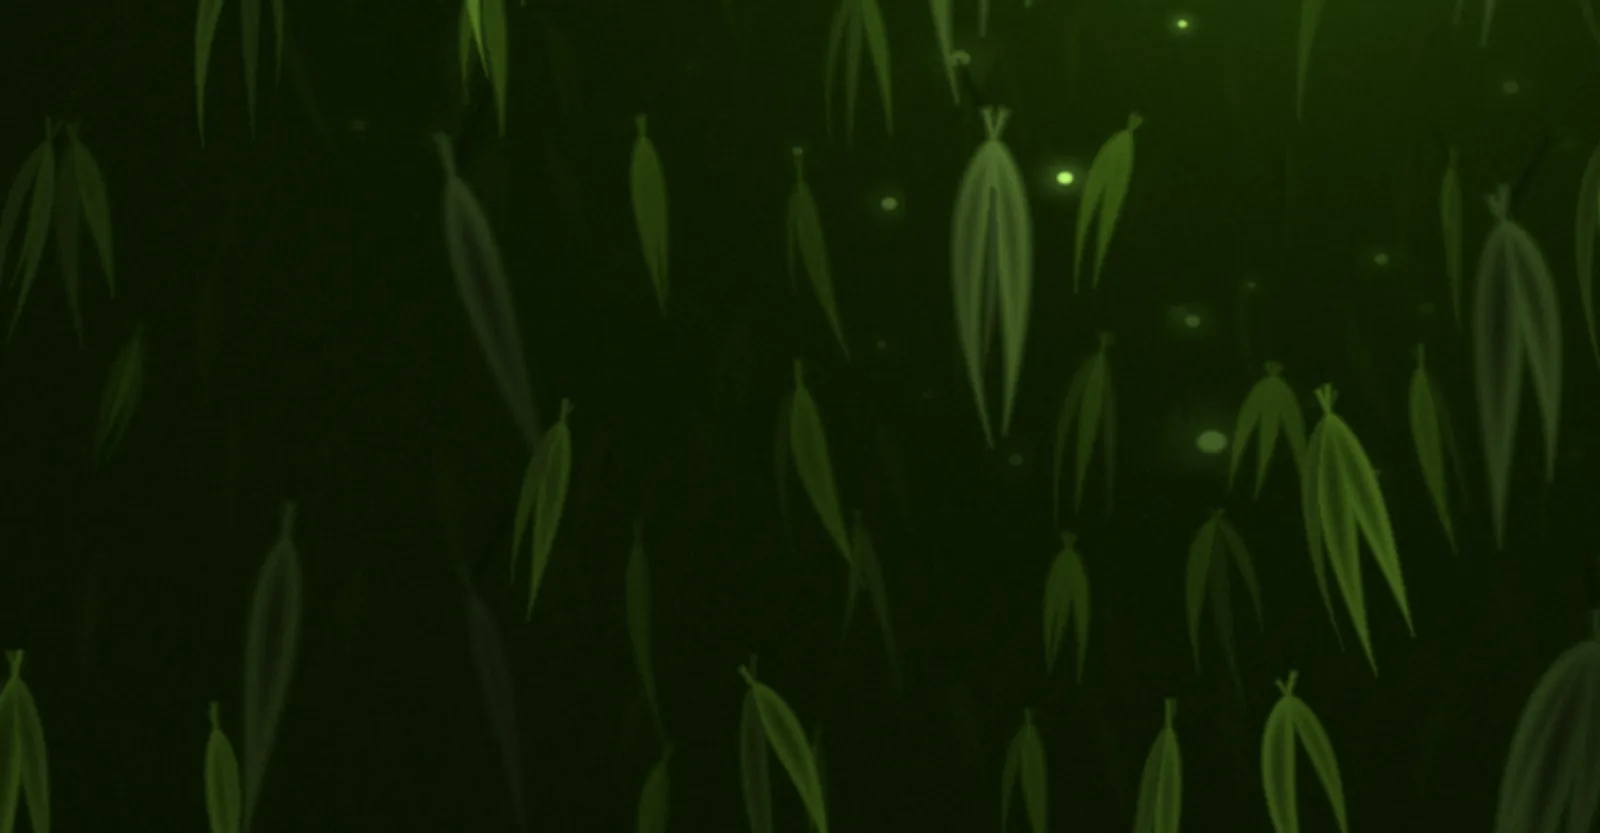
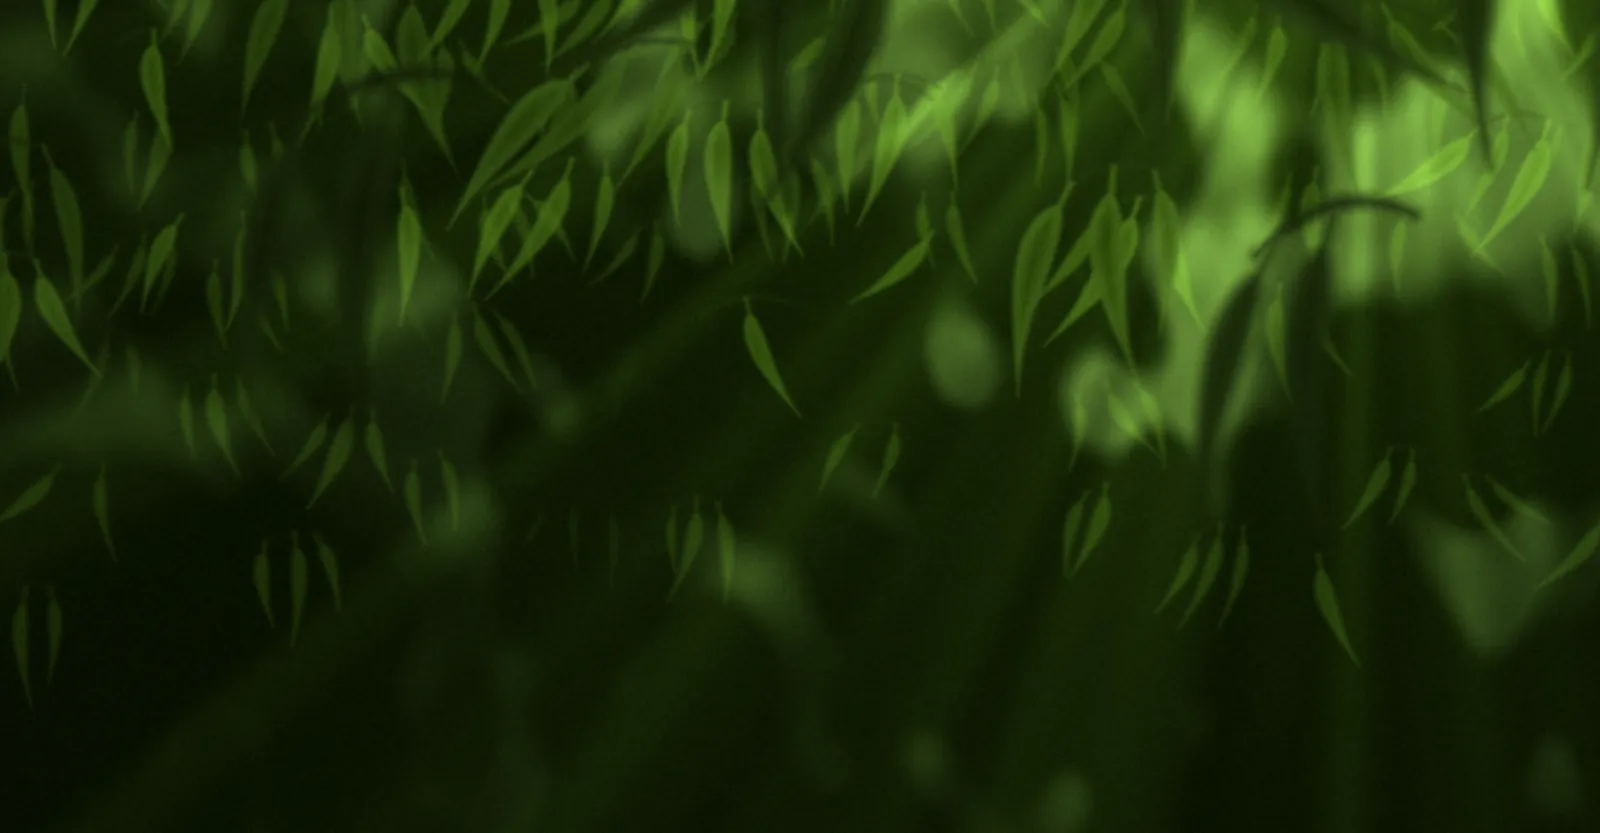
fix(welcome): canopy reads as dappled light under a gum tree, with no tile seams
- One sun, high on the right: a broad luminance gradient and shafts fanning down-left.
- Falcate gum leaves (curved midrib, fuller convex side, petiole, drawn-out tip) hang
  alternately from drooping twigs, at varied angles; each layer's twig grid is turned
  so the canopy never settles into rows; dense along the top edge, thinning downward.
- Depth: far leaves small and lit through in olive to fern; near leaves large, dark,
  soft, rim-lit only.
- Dapples are soft, irregular, overlapping Sprout pools from continuous noise, warped
  by the wind so they shimmer as the leaves move. The per-cell sun flecks (clipped at
  their cell edge, leaving square tiles) are gone.
- Leaves sample a 3x2 cell neighbourhood sized to their reach: renders are
  pixel-identical to a 5x4 neighbourhood with no reach cull over 20 frames at 1440
  and 390, so no leaf is cut at a cell edge.
- Poster recaptured from the new shader (30.6 KB).

Claude-Session: https://claude.ai/code/session_017CZvgkGPz5bSNZ1gF1KSeU

diff --git a/odip-prototype/odip/frontend/welcome/canopy-shader.ts b/odip-prototype/odip/frontend/welcome/canopy-shader.ts
@@ -1,8 +1,10 @@
-// GLSL for the canopy light field (WebGL 1, one fullscreen triangle): looking up through a gum canopy in the app's
-// greens. Forest ground, late sun beyond the leaves, sickle-shaped gum leaves hanging in tufts from twigs in parallax
-// layers, lit from behind like green glass (glowing edges, a shaded foreground) and swaying in a wind with travelling gusts, Sprout sun flecks where
-// the canopy opens, and fine grain. Coordinates: px are CSS pixels from the viewport's top left (y down); world
-// units are viewport heights, so the canopy keeps its scale on any screen.
+// GLSL for the canopy light field (WebGL 1, one fullscreen triangle): looking up into a gum canopy in the app's
+// greens. One sun, high on the right beyond the leaves, lights the field as a broad gradient with shafts slanting
+// down-left from it. Sickle-shaped gum leaves hang in clusters from drooping twigs, in parallax layers: the canopy is
+// dense along the top edge and thins downward; far leaves are small and lit through like fern-green glass, near ones
+// large, dark and soft with only their rims lit. Soft, irregular pools of Sprout light dapple the field and shimmer
+// as the wind moves the leaves, with fine grain over everything. Coordinates: px are CSS pixels from the viewport's
+// top left (y down); world units are viewport heights, so the canopy keeps its scale on any screen.
 
 export const VERTEX = `
 attribute vec2 aPos;
@@ -63,33 +65,25 @@ float wind(vec2 a, float t) {
   float g1 = (a.x - (fract(t * 0.043) * span - 0.9)) * 2.4;
   float g2 = (a.x - (fract(t * 0.043 + 0.53) * span - 0.9)) * 3.0;
   float gust = exp(-g1 * g1) * (0.65 + 0.35 * sin(t * 0.23)) + 0.75 * exp(-g2 * g2);
-  return sway * 0.4 + gust;
+  return sway * 0.45 + gust * 1.2;
 }
 
-// A hanging gum leaf in its own space (y runs down the leaf from its stalk): long and lanceolate, curved like a
-// sickle, with a drip tip and a short stalk. An approximate distance, which is all soft shading needs.
-float leaf(vec2 q, float len, float halfW, float bend) {
-  float t = clamp(q.y / len, 0.0, 1.0);
-  float x = q.x - bend * len * t * t;
-  float prof = pow(max(sin(3.14159 * pow(t, 0.62)), 0.0), 1.1) * (1.0 - 0.25 * t);
-  float body = max(abs(x) - halfW * prof, max(-q.y, q.y - len));
-  float stalk = max(abs(q.x) - halfW * 0.16, max(-q.y - len * 0.1, q.y - len * 0.04));
-  return min(body, stalk);
-}
-
-// Sun flecks: small bright images of the sun where the canopy opens, twinkling as the leaves move over them.
-float flecks(vec2 g, float t, float density) {
-  vec2 c = floor(g);
-  vec2 f = fract(g);
-  vec2 h = hash22(c + 13.1);
-  float on = step(1.0 - density, hash12(c + 2.7));
-  float r = 0.06 + 0.1 * hash12(c + 5.3);
-  vec2 dd = (f - (0.25 + 0.5 * h)) * vec2(1.0, 1.3);
-  float d2 = dot(dd, dd);
-  float core = 1.0 - smoothstep(r * r * 0.2, r * r, d2);
-  float bloom = exp(-d2 / (r * r * 5.0)) * 0.35;
-  float twinkle = 0.45 + 0.55 * sin(t * (0.6 + 1.7 * h.y) + h.x * 6.2831);
-  return (core + bloom) * max(twinkle, 0.0) * on;
+// A hanging gum leaf in its own space (y runs down from where the petiole meets the twig): a short petiole, then a
+// long narrow blade on a curved midrib (the sickle), widest a third of the way down, its convex side a little fuller,
+// drawn out to a fine tip. Returns an approximate distance (enough for soft shading) and the distance from the
+// midrib as a fraction of the half-width.
+vec2 leaf(vec2 q, float len, float halfW, float bend) {
+  float pet = len * 0.12;
+  float bl = len - pet;
+  float y = q.y - pet;
+  float t = clamp(y / bl, 0.0, 1.0);
+  float x = q.x - bend * bl * t * t;
+  float slope = 2.0 * bend * t;
+  float prof = pow(sin(3.14159 * pow(t, 0.6)), 1.25) * (1.0 - 0.3 * t);
+  float w = halfW * prof * (x * bend < 0.0 ? 1.18 : 0.85);
+  float body = max((abs(x) - w) / sqrt(1.0 + slope * slope), max(-y, y - bl));
+  float stalk = max(abs(q.x) - halfW * 0.13, max(-q.y, y - len * 0.02));
+  return vec2(min(body, stalk), abs(x) / max(w, 1e-4));
 }
 
 // Light finds the work: the canopy brightens round each paper clearing in view.
@@ -106,7 +100,7 @@ float pools(vec2 px) {
   return min(s, 1.3);
 }
 
-// Quiet zones: behind every block of text the flecks go out and the ground darkens, fading softly at the edges.
+// Quiet zones: behind every block of text the dapples go out and the ground darkens, fading softly at the edges.
 float quiet(vec2 px) {
   float q = 0.0;
   for (int i = 0; i < 8; i++) {
@@ -126,104 +120,128 @@ void main() {
   float t = uTime;
   float sN = uScroll / uView.y;
 
-  // The late sun sits beyond the canopy, high to the right; light comes through in soft drifting openings.
-  vec2 sun = vec2(aspect * 0.8, -0.2 + 0.05 * sin(sN * 0.6));
-  float glow = exp(-length((w - sun) * vec2(0.75, 1.0)) * 1.7);
-  float opening = smoothstep(0.42, 0.9, vnoise(w * 1.4 + vec2(t * 0.012, sN * 0.1)));
+  // The sun, high on the right beyond the canopy: a broad gradient across the field, and shafts fanning down-left.
+  vec2 ds = w - vec2(aspect * 0.86, -0.34 + 0.04 * sin(sN * 0.6));
+  float r = length(ds * vec2(0.8, 1.0));
+  float glow = exp(-r * 1.0);
+  float ang = atan(ds.y, ds.x);
+  float shaft = 0.6 * vnoise(vec2(ang * 9.0 + t * 0.02, 1.7)) + 0.4 * vnoise(vec2(ang * 23.0 - t * 0.035, 8.3));
+  shaft = smoothstep(0.4, 0.85, shaft) * smoothstep(0.1, 0.55, r) * exp(-r * 0.6);
   float pool = pools(px);
-  float L = clamp(glow * (0.45 + 0.75 * opening) + pool * 0.55, 0.0, 1.2);
+  float L = clamp(glow + 0.35 * shaft + 0.55 * pool, 0.0, 1.3);
 
-  // The ground stays deep forest; the light is carried by the leaves it passes through.
-  vec3 col = FOREST * 0.55 + OLIVE * 0.22 * glow + FERN * 0.16 * glow * glow + SPROUT * 0.1 * pow(glow, 4.0);
+  vec3 col = FOREST * 0.42 + OLIVE * 0.34 * glow * glow + FERN * 0.3 * glow * glow + SPROUT * 0.18 * pow(glow, 4.0);
+  col += (FERN * 0.22 + SPROUT * 0.06) * shaft;
   col += (OLIVE * 0.22 + FERN * 0.1) * pool;
 
   vec2 bp = uBreeze.xy / uView.y;
   float open = 1.0;
-  float glint = 0.0;
   for (int i = 0; i < 4; i++) {
     float li = float(i);
     if (li < 4.0 - uLayers) continue;
-    float S = pick4(li, vec4(0.16, 0.24, 0.34, 0.5));
+    // Layer 0 is the farthest: small, high and lit through; layer 3 the nearest: large, low on the top edge, dark.
+    float S = pick4(li, vec4(0.15, 0.22, 0.32, 0.52));
     float par = pick4(li, vec4(0.05, 0.11, 0.19, 0.3));
-    float amp = pick4(li, vec4(0.05, 0.08, 0.11, 0.14));
-    float blur = pick4(li, vec4(0.007, 0.0045, 0.0025, 0.007));
-    float occl = pick4(li, vec4(0.15, 0.35, 0.75, 0.95));
-    float near = li / 3.0;
+    float amp = pick4(li, vec4(0.07, 0.1, 0.13, 0.16));
+    float blur = pick4(li, vec4(0.0035, 0.0022, 0.003, 0.012));
+    float occl = pick4(li, vec4(0.1, 0.3, 0.6, 0.95));
+    float yTop = pick4(li, vec4(0.15, 0.05, -0.02, -0.06));
+    float yBot = pick4(li, vec4(0.95, 0.75, 0.55, 0.34));
+    float soft = blur + 1.2 / uRes.y;
     vec2 shift = vec2(li * 3.17, li * 1.31 + sN * par);
     vec2 p = w + shift;
-    vec2 g = p / S;
-    vec2 c0 = floor(g);
-    float side = fract(g.x) < 0.5 ? -1.0 : 1.0;
+    // Each layer's twig grid is turned a little, alternately, so the canopy never settles into rows.
+    float gr = pick4(li, vec4(0.28, -0.22, 0.3, -0.26));
+    vec2 gx = vec2(cos(gr), sin(gr));
+    vec2 gy = vec2(-gx.y, gx.x);
+    vec2 c0 = floor(vec2(dot(p, gx), dot(p, gy)) / S);
     float best = 1e3;
+    float fade = 0.0;
     float face = 1.0;
     float mid = 1.0;
     float tint = 0.5;
-    float twig = 1e3;
-    for (int k = 0; k < 4; k++) {
+    float tm = 0.0;
+    // A twig's leaves reach at most 1.45 S from its anchor and at most 1.25 S sideways or 0.2 S up, and anchors sit
+    // 0.3-0.7 across and 0.25-0.5 down their cell, so this cell, its two side neighbours and the three above hold
+    // every leaf that can cover this pixel: no leaf is ever cut at a cell edge.
+    for (int k = 0; k < 6; k++) {
       float fk = float(k);
-      vec2 c = c0 + vec2(mod(fk, 2.0) * side, -floor(fk * 0.5));
-      // Tufts gather in clumps, with open sky between them.
-      if (hash12(c * 1.73 + li * 5.1) < 0.18 || vnoise(c * 0.45 + li * 7.0) < 0.28) continue;
+      float row = floor((fk + 0.5) / 3.0);
+      vec2 c = c0 + vec2(fk - 3.0 * row - 1.0, -row);
       vec2 h = hash22(c + li * 17.3);
       float seed = hash12(c + li * 9.7 + 4.2);
-      // A node at the end of a twig; a tuft of one to three gum leaves fans down from it.
-      vec2 a = (c + vec2(0.1 + 0.8 * h.x, 0.04 + 0.36 * h.y)) * S;
+      vec2 ag = (c + vec2(0.3 + 0.4 * h.x, 0.25 + 0.25 * h.y)) * S;
+      vec2 a = ag.x * gx + ag.y * gy;
       vec2 aw = a - shift;
-      vec2 dB = aw + vec2(0.0, S * 0.4) - bp;
-      float br = uBreeze.z * exp(-dot(dB, dB) / 0.04);
-      float sway = amp * wind(aw, t + seed * 3.0) + br * (0.45 * uPush + 0.2 * sin(t * 12.0 + seed * 40.0));
-      float base = (h.x - 0.5) * 0.6;
-      // A short twig stub above the node, tapering away fast.
-      vec2 tdir = normalize(vec2((seed - 0.5) * 1.4, -1.0));
+      // Dense along the top edge, thinning downward, in clumps; a twig fades rather than pops as the camera drifts.
+      float dens = (1.0 - smoothstep(yTop, yBot, aw.y)) * (0.45 + 0.8 * vnoise(c * 0.5 + li * 7.0));
+      float pres = smoothstep(seed - 0.08, seed + 0.08, dens);
       vec2 tq = p - a;
-      float along = clamp(dot(tq, tdir), 0.0, S * 0.22);
-      twig = min(twig, length(tq - tdir * along) + along * 0.03);
+      if (pres < 0.01 || dot(tq, tq) > S * S * 2.1) continue;
+      vec2 dB = aw + vec2(0.0, S * 0.45) - bp;
+      float br = uBreeze.z * exp(-dot(dB, dB) / 0.05);
+      float sway = amp * wind(aw, t + seed * 3.0) + br * (0.45 * uPush + 0.18 * sin(t * 11.0 + seed * 40.0));
+      // The twig: a short drooping stem, tilted, bending a little with the wind.
+      float span = S * (0.18 + 0.1 * h.y);
+      float tilt = (seed - 0.5) * 0.5 + sway * 0.15;
+      float droop = S * 0.07;
+      float sx = clamp(tq.x, -span, span);
+      float u = sx / span;
+      float twd = length(vec2(tq.x - sx, tq.y - tilt * sx - droop * u * u)) - S * 0.016 * (1.0 - 0.6 * abs(u));
+      tm = max(tm, (1.0 - smoothstep(-soft, soft, twd)) * pres);
       for (int j = 0; j < 3; j++) {
         float fj = float(j) - 1.0;
         float sj = hash12(c + li * 3.9 + fj * 7.7 + 2.0);
-        if (sj < 0.12 + 0.2 * abs(fj)) continue;
-        float ang = base + sway + fj * (0.25 + 0.35 * seed) + (sj - 0.5) * 0.3 + 0.05 * sin(t * (0.9 + sj) + sj * 9.0);
-        float len = S * (0.45 + 0.6 * sj) * (1.0 - 0.18 * abs(fj));
-        float halfW = len * (0.065 + 0.035 * seed);
-        float bend = fj * 0.3 + (sj - 0.5) * 0.5;
-        vec2 q = p - a;
-        float cs = cos(ang);
-        float sn = sin(ang);
+        if (sj < 0.1 + 0.15 * abs(fj)) continue;
+        // Leaves hang alternately along the twig, pendulous, each at its own angle, each turning on its petiole.
+        float lx = span * (fj * 0.8 + (sj - 0.5) * 0.25);
+        float lu = lx / span;
+        vec2 at = a + vec2(lx, tilt * lx + droop * lu * lu);
+        float la = clamp((h.x - 0.5) * 0.9 + -fj * (0.2 + 0.25 * seed) + (sj - 0.5) * 0.35 + sway + 0.06 * sin(t * (0.8 + sj) + sj * 9.0), -0.85, 0.85);
+        float len = S * (0.55 + 0.4 * sj) * (1.0 - 0.12 * abs(fj));
+        float halfW = len * (0.085 + 0.03 * seed);
+        float bend = (fract(sj * 7.3) > 0.5 ? 1.0 : -1.0) * (0.16 + 0.12 * fract(sj * 13.1));
+        vec2 q = p - at;
+        float cs = cos(la);
+        float sn = sin(la);
         q = vec2(cs * q.x + sn * q.y, -sn * q.x + cs * q.y);
-        float tw = 0.45 + 0.55 * abs(cos(sj * 6.2831 + t * (0.25 + 0.3 * seed) + ang * 4.0 + br * 3.0));
-        float d = leaf(q, len, halfW * tw, bend);
+        float tw = 0.72 + 0.28 * abs(cos(sj * 6.2831 + t * (0.2 + 0.25 * seed) + la * 3.0 + br * 3.0));
+        vec2 lf = leaf(q, len, halfW * tw, bend);
+        float d = lf.x + (1.0 - pres) * S * 0.04;
         if (d < best) {
           best = d;
+          fade = pres;
           face = tw;
           tint = sj;
-          float tt = clamp(q.y / len, 0.0, 1.0);
-          mid = abs(q.x - bend * len * tt * tt) / max(halfW * tw, 1e-4);
+          mid = lf.y;
         }
       }
     }
-    float soft = blur + 1.2 / uRes.y;
-    float m = 1.0 - smoothstep(-soft, soft, best);
-    // Lit from behind, like green glass: brighter toward the edge, a pale midrib, a Sprout rim where the sun catches.
-    // The nearest layer is the shaded foreground: a dark blade with only its rim lit. The farthest recedes into haze.
-    float lightIn = 0.32 + 0.68 * L;
-    float edge = smoothstep(-soft * 4.0 - 0.006, 0.0, best);
-    vec3 glass = mix(OLIVE, FERN, 0.25 + 0.65 * tint) * face * lightIn * pick4(li, vec4(0.55, 0.95, 1.05, 0.38));
-    vec3 leafCol = glass * (0.72 + 0.4 * edge);
-    leafCol += SPROUT * edge * lightIn * face * pick4(li, vec4(0.05, 0.14, 0.24, 0.32));
-    leafCol += SPROUT * 0.07 * (1.0 - smoothstep(0.0, 0.12, mid)) * lightIn * (1.0 - near * 0.6);
-    leafCol = mix(leafCol, col, pick4(li, vec4(0.5, 0.2, 0.0, 0.0)));
-    float tw0 = 0.0011 + 0.0012 * near;
-    float tm = (1.0 - smoothstep(tw0, tw0 + soft, twig)) * step(0.5, li) * 0.45;
-    col = mix(col, mix(FOREST * 0.4, OLIVE * 0.5, lightIn * (1.0 - near)), tm);
-    col = mix(col, leafCol, m * pick4(li, vec4(0.55, 0.8, 0.95, 0.97)));
-    glint = max(glint, edge * m * near * L);
-    open *= 1.0 - max(m * occl, tm);
+    float m = (1.0 - smoothstep(-soft, soft, best)) * fade;
+    float near = li / 3.0;
+    float edge = smoothstep(-soft * 3.0 - 0.004 * (1.0 + 2.0 * near), 0.0, best);
+    // Far leaves are lit through, olive to fern, brightest toward the sun, with a pale midrib and a Sprout rim;
+    // near leaves are the shaded foreground, dark and soft, only their rims catching the light.
+    vec3 lit = mix(OLIVE, FERN, 0.3 + 0.6 * tint) * (0.45 + 0.85 * L) * (0.6 + 0.4 * face);
+    lit += SPROUT * (0.05 + 0.22 * L) * edge * face;
+    lit += SPROUT * 0.08 * L * (1.0 - smoothstep(0.0, 0.14, mid));
+    vec3 shade = FOREST * 0.32 + OLIVE * 0.1 * L + SPROUT * 0.14 * L * edge * face;
+    vec3 leafCol = mix(lit, shade, pick4(li, vec4(0.0, 0.1, 0.45, 0.9)));
+    leafCol = mix(leafCol, col, pick4(li, vec4(0.45, 0.2, 0.05, 0.0)));
+    col = mix(col, mix(leafCol * 0.7, shade, 0.5), tm * pick4(li, vec4(0.3, 0.5, 0.7, 0.9)));
+    col = mix(col, leafCol, m * pick4(li, vec4(0.7, 0.85, 0.95, 0.97)));
+    open *= 1.0 - max(m, tm) * occl;
   }
 
+  // Dapples: soft, irregular, overlapping pools of sunlight, longer than wide under a high sun, strongest where the
+  // light is, drifting and shimmering as the wind moves the leaves that cast them. Continuous noise, so no seams.
   float q = quiet(px);
-  float fl = flecks(w * 7.0 + vec2(t * 0.025, sN * 0.8), t, 0.26) + 0.55 * flecks(w * 13.0 + vec2(-t * 0.02, sN * 1.3) + 7.3, t * 1.3, 0.16);
-  col += SPROUT * fl * open * smoothstep(0.14, 0.65, L) * (1.0 - q);
-  col += SPROUT * glint * 0.3 * (0.5 + 0.5 * sin(t * 3.1 + w.x * 40.0)) * (1.0 - q);
+  vec2 wv = vec2(0.035 * wind(w, t) + 0.012 * sin(t * 0.9 + w.y * 5.0), 0.012 * cos(t * 0.7 + w.x * 4.0));
+  vec2 dp = (w + vec2(t * 0.008, sN * 0.5) + wv) * vec2(1.0, 0.7);
+  float n = 0.58 * vnoise(dp * 6.1) + 0.42 * vnoise(mat2(0.8, -0.6, 0.6, 0.8) * dp * 13.3 + 5.3);
+  float dap = smoothstep(0.6, 0.8, n);
+  float shimmer = 0.68 + 0.32 * vnoise(w * 21.0 + vec2(t * 1.5, -t * 1.1));
+  col += SPROUT * dap * shimmer * open * smoothstep(0.12, 0.9, L) * 0.62 * (1.0 - q);
   col = mix(col, FOREST * 0.5 + col * 0.22, q * 0.8);
   col += (hash12(gl_FragCoord.xy + fract(t * 7.13) * 371.0) - 0.5) * 0.03;
   gl_FragColor = vec4(max(col, vec3(0.0)), 1.0);
